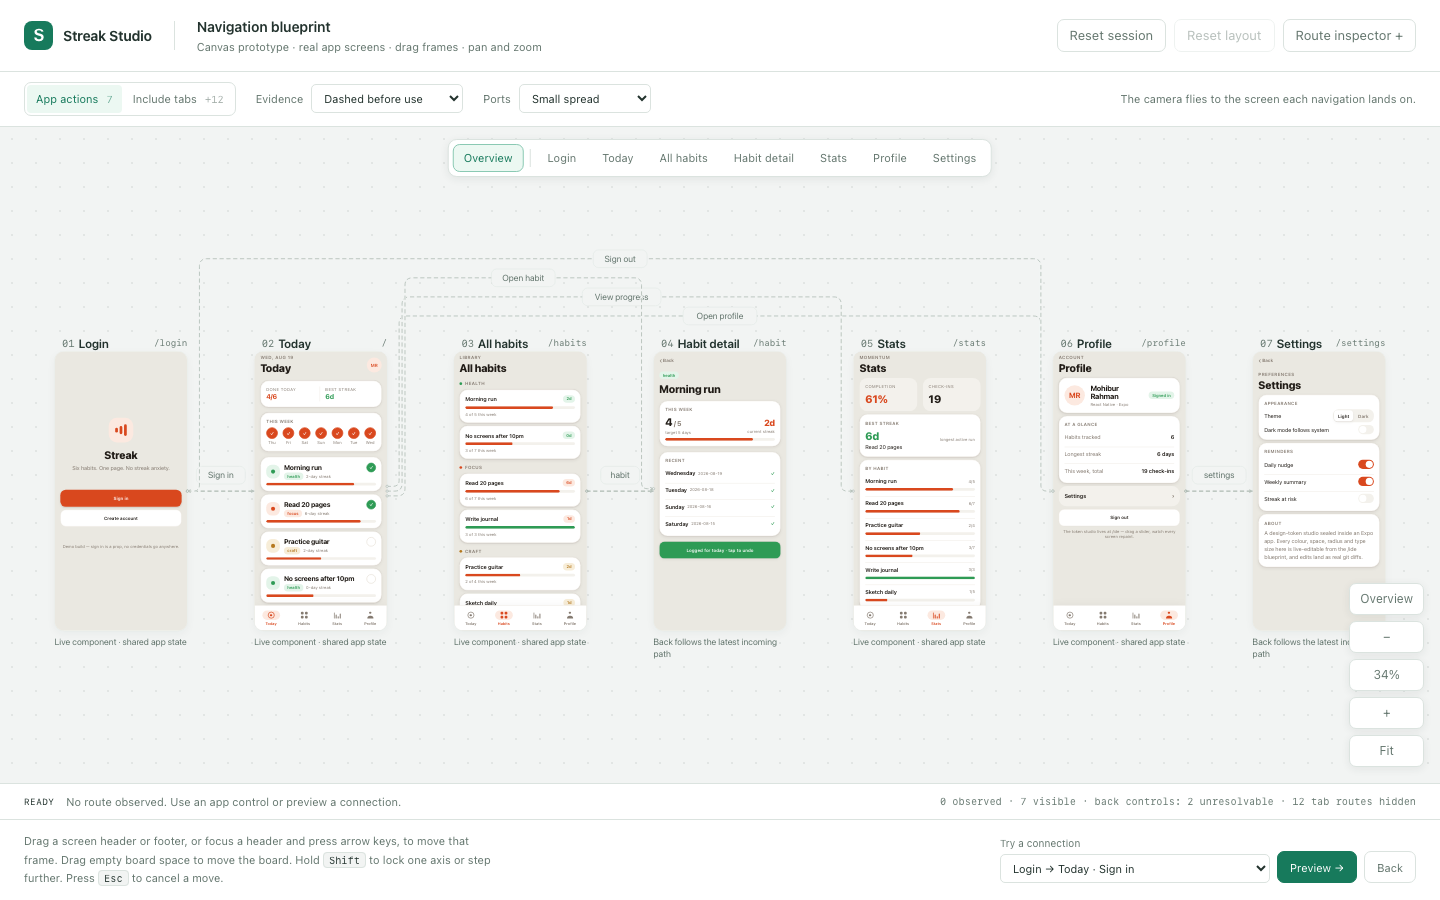
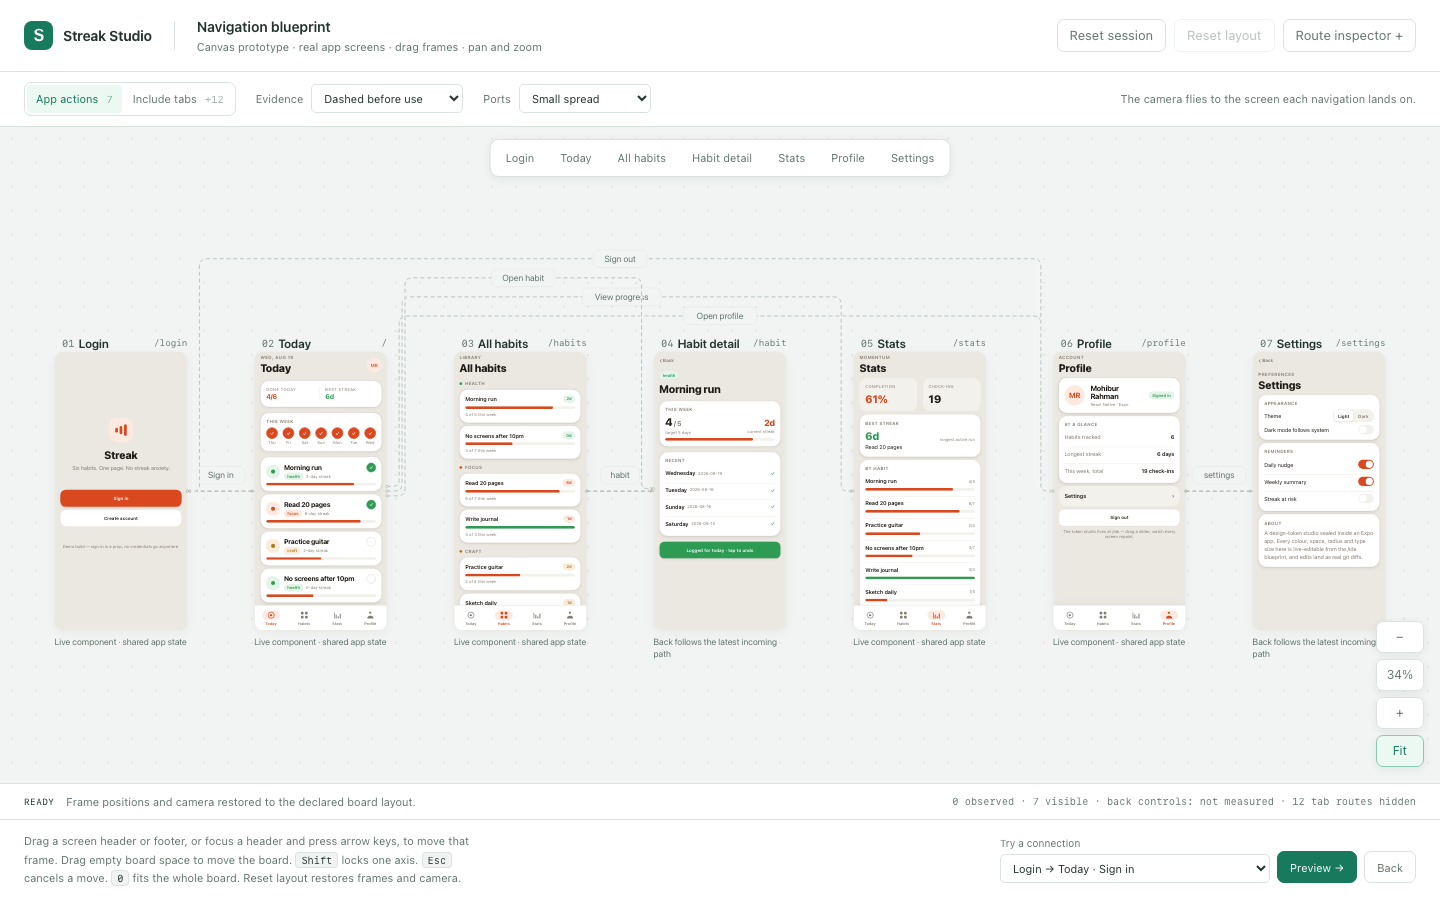
fix(ide): make Reset layout restore the camera and remove Overview buttons
Reset layout restored dragged frames but stayed disabled after a pan, a zoom, or a fly-to. It now restores frame positions and the camera together. Fit is the single camera-only action and displays the overview state. Both Overview buttons are removed.

diff --git a/mobile/src/ide/MidpointPrototype.tsx b/mobile/src/ide/MidpointPrototype.tsx
@@ -362,12 +362,20 @@ export function MidpointPrototype() {
     setObserved(new Set()); setActivity([]); setExtra([]); setSelected(0);
     setMessage('No route observed. Use an app control or preview a connection.');
   };
+  // Reset layout restores both halves of the board arrangement: where the frames
+  // sit and where the camera looks. A reset that only moved frames looked dead
+  // after a pan or zoom, because the button stayed disabled while the view was
+  // off. `flyTo(null)` animates the camera home and the fit effect re-runs once
+  // the cleared positions change the bounds.
+  const layoutDirty = movedCount > 0 || !fitMode;
   const resetLayout = () => {
     frameDrag.current = null;
     setDragged(null);
     setPositions({});
-    setFitMode(true);
-    setMessage('Frame positions restored to the declared board layout.');
+    flyTo(null);
+    setMessage(movedCount > 0
+      ? 'Frame positions and camera restored to the declared board layout.'
+      : 'Camera restored to the board overview.');
   };
 
   // Board pan: any press that is not on a live app control, a drag handle, or the
@@ -490,7 +498,7 @@ export function MidpointPrototype() {
         <a className="mp-brand" href="/ide"><span className="mp-brand-icon">S</span><span>Streak Studio</span></a>
         <span className="mp-header-divider" />
         <div className="mp-heading"><h1>Navigation blueprint</h1><span>Canvas prototype · real app screens · drag frames · pan and zoom</span></div>
-        <div className="mp-header-actions"><button type="button" onClick={reset}>Reset session</button><button type="button" onClick={resetLayout} disabled={Object.keys(positions).length === 0}>Reset layout</button><button type="button" aria-pressed={inspector} onClick={() => setInspector(!inspector)}>Route inspector {inspector ? '−' : '+'}</button></div>
+        <div className="mp-header-actions"><button type="button" onClick={reset}>Reset session</button><button type="button" onClick={resetLayout} disabled={!layoutDirty} title="Restore frame positions and the camera overview">Reset layout</button><button type="button" aria-pressed={inspector} onClick={() => setInspector(!inspector)}>Route inspector {inspector ? '−' : '+'}</button></div>
       </header>
 
       <section className="mp-toolbar" aria-label="Prototype controls">
@@ -559,16 +567,13 @@ export function MidpointPrototype() {
             </div>}
 
             <div className="mp-canvas-controls">
-              <button type="button" onClick={() => flyTo(null)}>Overview</button>
               <button type="button" aria-label="Zoom out" onClick={(e) => zoomAt(e.clientX, e.clientY, 1 / 1.25)}>−</button>
               <button type="button" aria-label="Zoom to 100%" onClick={(e) => { const el = viewport.current; if (!el || !view) return; const rect = el.getBoundingClientRect(); zoomAt(rect.left + rect.width / 2, rect.top + rect.height / 2, 1 / view.k); }}>{Math.round(k * 100)}%</button>
               <button type="button" aria-label="Zoom in" onClick={(e) => zoomAt(e.clientX, e.clientY, 1.25)}>+</button>
-              <button type="button" onClick={() => { setFitMode(true); fitView(); }}>Fit</button>
+              <button type="button" aria-pressed={fitMode} title="Fit the whole board in view" onClick={() => flyTo(null)}>Fit</button>
             </div>
 
             <div className="mp-flybar" role="group" aria-label="Fly to screen">
-              <button type="button" className="mp-flybar-overview" aria-pressed={fitMode} onClick={() => flyTo(null)}>Overview</button>
-              <span className="mp-flybar-divider" aria-hidden="true" />
               {screens.map(({ key, label }) => <button type="button" key={key} onClick={() => flyTo(key)}>{label}</button>)}
             </div>
           </div>
@@ -578,7 +583,7 @@ export function MidpointPrototype() {
       </div>
 
       <section className="mp-status" aria-live="polite"><span className={last?.mode === 'live' ? 'mp-status-live' : 'mp-status-label'}>{last ? last.mode === 'live' ? 'OBSERVED' : 'PREVIEW' : 'READY'}</span><span>{message}</span><small>{allObserved.size} observed · {routes.length} visible · {gapCopy.label} · {includeTabs ? 'tab routes included' : `${TAB_ROUTES.length} tab routes hidden`}{movedCount > 0 ? ` · ${movedCount} frame${movedCount === 1 ? '' : 's'} moved` : ''}</small></section>
-      <footer className="mp-footer"><p className="mp-footer-hint">Drag a screen header or footer, or focus a header and press arrow keys, to move that frame. Drag empty board space to move the board. Hold <kbd>Shift</kbd> to lock one axis or step further. Press <kbd>Esc</kbd> to cancel a move.</p><div className="mp-preview-controls"><label className="mp-action-select">Try a connection<select aria-label="Preview route" value={Math.min(selected, routes.length - 1)} onChange={(e) => setSelected(Number(e.target.value))}>{routes.map((r, i) => <option key={keyOf(r)} value={i}>{labelOf(r.from)} → {labelOf(r.to)} · {r.action}</option>)}</select></label><button type="button" className="mp-primary" onClick={() => selectedRoute && preview(selectedRoute)}>Preview →</button><button type="button" onClick={() => { const from = last?.to ?? 'habit'; record(from, 'back', undefined, 'preview'); }}>Back</button></div></footer>
+      <footer className="mp-footer"><p className="mp-footer-hint">Drag a screen header or footer, or focus a header and press arrow keys, to move that frame. Drag empty board space to move the board. <kbd>Shift</kbd> locks one axis. <kbd>Esc</kbd> cancels a move. <kbd>0</kbd> fits the whole board. Reset layout restores frames and camera.</p><div className="mp-preview-controls"><label className="mp-action-select">Try a connection<select aria-label="Preview route" value={Math.min(selected, routes.length - 1)} onChange={(e) => setSelected(Number(e.target.value))}>{routes.map((r, i) => <option key={keyOf(r)} value={i}>{labelOf(r.from)} → {labelOf(r.to)} · {r.action}</option>)}</select></label><button type="button" className="mp-primary" onClick={() => selectedRoute && preview(selectedRoute)}>Preview →</button><button type="button" onClick={() => { const from = last?.to ?? 'habit'; record(from, 'back', undefined, 'preview'); }}>Back</button></div></footer>
     </main>
   );
 }

diff --git a/mobile/src/ide/midpointPrototype.css b/mobile/src/ide/midpointPrototype.css
@@ -90,8 +90,6 @@
 .mp-canvas-controls button { min-width: 44px; justify-content: center; font-size: 12px; padding: 6px 10px; box-shadow: 0 2px 8px #23332e14; }
 .mp-flybar { position: absolute; top: 12px; left: 50%; transform: translateX(-50%); z-index: 12; display: flex; align-items: center; gap: 4px; padding: 4px; background: var(--surface); border: 1px solid var(--border); border-radius: 9px; box-shadow: 0 2px 8px #23332e14; }
 .mp-flybar button { min-height: 28px; padding: 4px 10px; font-size: 11px; border-color: transparent; }
-.mp-flybar-overview { font-weight: 600; }
-.mp-flybar-divider { width: 1px; height: 18px; margin: 0 2px; background: var(--border); }
 .mp-inspector { width: 282px; flex-shrink: 0; overflow-y: auto; border-left: 1px solid var(--border); background: var(--surface); padding: 20px 16px; }
 .mp-inspector-title { display: flex; justify-content: space-between; align-items: center; gap: 10px; }
 .mp-inspector h2 { margin: 0; font-size: 13px; font-weight: 600; }

diff --git a/.scratch/five-bullets-built/map.md b/.scratch/five-bullets-built/map.md
@@ -71,7 +71,7 @@ around, not grounds to reject again).
 - [Mixpanel ingestion API, measured](issues/01-mixpanel-ingestion-api.md) — browser `/track` works cross-origin with no SDK and no proxy; `verbose=1` only proves "well-formed", so the tab says *accepted*, never *delivered*; token is not secret but host must match region; one UUID per browser as `$device_id`.
 - [Playwright on Expo web export, measured](issues/02-playwright-on-expo-web.md) — baselines must be Linux-only via the official Playwright Docker image; `reducedMotion: 'reduce'` is the wait, not a sleep; frame-level screenshots need the board scale pinned to 1; Playwright's own differ suffices.
 - [Bundling the display font](issues/03-bundling-the-font.md) — RNW ignores `global.css` for `Text`, so the app has never rendered Spline Sans; fix is `fontFamily` in the `Text` style plus hand-written `@font-face` and `public/fonts/`; Spline Sans has no 800 weight, so `display` drops to 700.
-- [How edges draw on the board](issues/05-edges-on-the-board.md) — Contour midpoint board with the Guide camera model: straight arrows between facing side midpoints for adjacent screens in the declared order, parallel detour lanes with rounded elbows above the row, dashed declared vs solid observed, board-local history for Back, draggable screen frames with hover-only grip and keyboard arrow support, header collision auto-nudge, and Overview on both the fly bar and the corner controls.
+- [How edges draw on the board](issues/05-edges-on-the-board.md) — Contour midpoint board with the Guide camera model: straight arrows between facing side midpoints for adjacent screens in the declared order, parallel detour lanes with rounded elbows above the row, dashed declared vs solid observed, board-local history for Back, draggable screen frames with hover-only grip and keyboard arrow support, header collision auto-nudge, Fit as the single camera-only action, and Reset layout restoring frames and camera together.
 
 ## Not yet specified
 

diff --git a/.scratch/five-bullets-built/issues/05-edges-on-the-board.md b/.scratch/five-bullets-built/issues/05-edges-on-the-board.md
@@ -138,3 +138,11 @@ Chosen design: the Contour midpoint board with the Guide camera model (`mobile/s
 - Interacted frames rise to the top of the z-order. Dropping or stepping a frame onto another frame header nudges the moved frame down by one header height so both drag handles stay reachable.
 - `scripts/guard.sh` names `mobile/src/app/ide.tsx` and `mobile/src/ui/index.tsx` as the two explicit exceptions to the byte-identical rule.
 
+### Refinement: Reset layout scope
+
+The user reported that Reset layout did not work. Browser reproduction showed that the button restored dragged frames correctly but stayed disabled after a pan, a zoom, or a fly-to. The button covered frame positions only. Confirmed changes:
+
+- Reset layout now restores frame positions and the camera. It is active when a frame moved or the camera left the overview.
+- The two Overview buttons are gone. Fit in the zoom cluster is the single camera-only action. It displays the pressed state while the camera is in overview. The `0` key does the same.
+- The fly bar holds screen names only.
+

diff --git a/.scratch/five-bullets-built/issues/11-board-edges-implementation.md b/.scratch/five-bullets-built/issues/11-board-edges-implementation.md
@@ -15,7 +15,7 @@ This ticket records the implementation of the accepted board-edges design from t
 - Screen frames move when the user drags the frame header or footer. A grip icon appears on hover or focus only.
 - Keyboard users can focus a frame header and press arrow keys to move the frame. `Shift` increases the step size. `Home` restores the frame to its declared position. `Enter` centers the camera on the frame.
 - Interacted frames rise to the top of the z-order. Dropping or stepping a frame onto another frame header nudges the moved frame down so both drag handles stay reachable.
-- Overview buttons appear in two places: the top fly bar and the bottom-right canvas controls.
+- Fit in the bottom-right zoom cluster is the single camera-only action. The `0` key does the same. Reset layout restores frame positions and the camera together.
 - `scripts/guard.sh` names `mobile/src/app/ide.tsx` and `mobile/src/ui/index.tsx` as the two exceptions to the byte-identical rule.
 
 ## Verification
